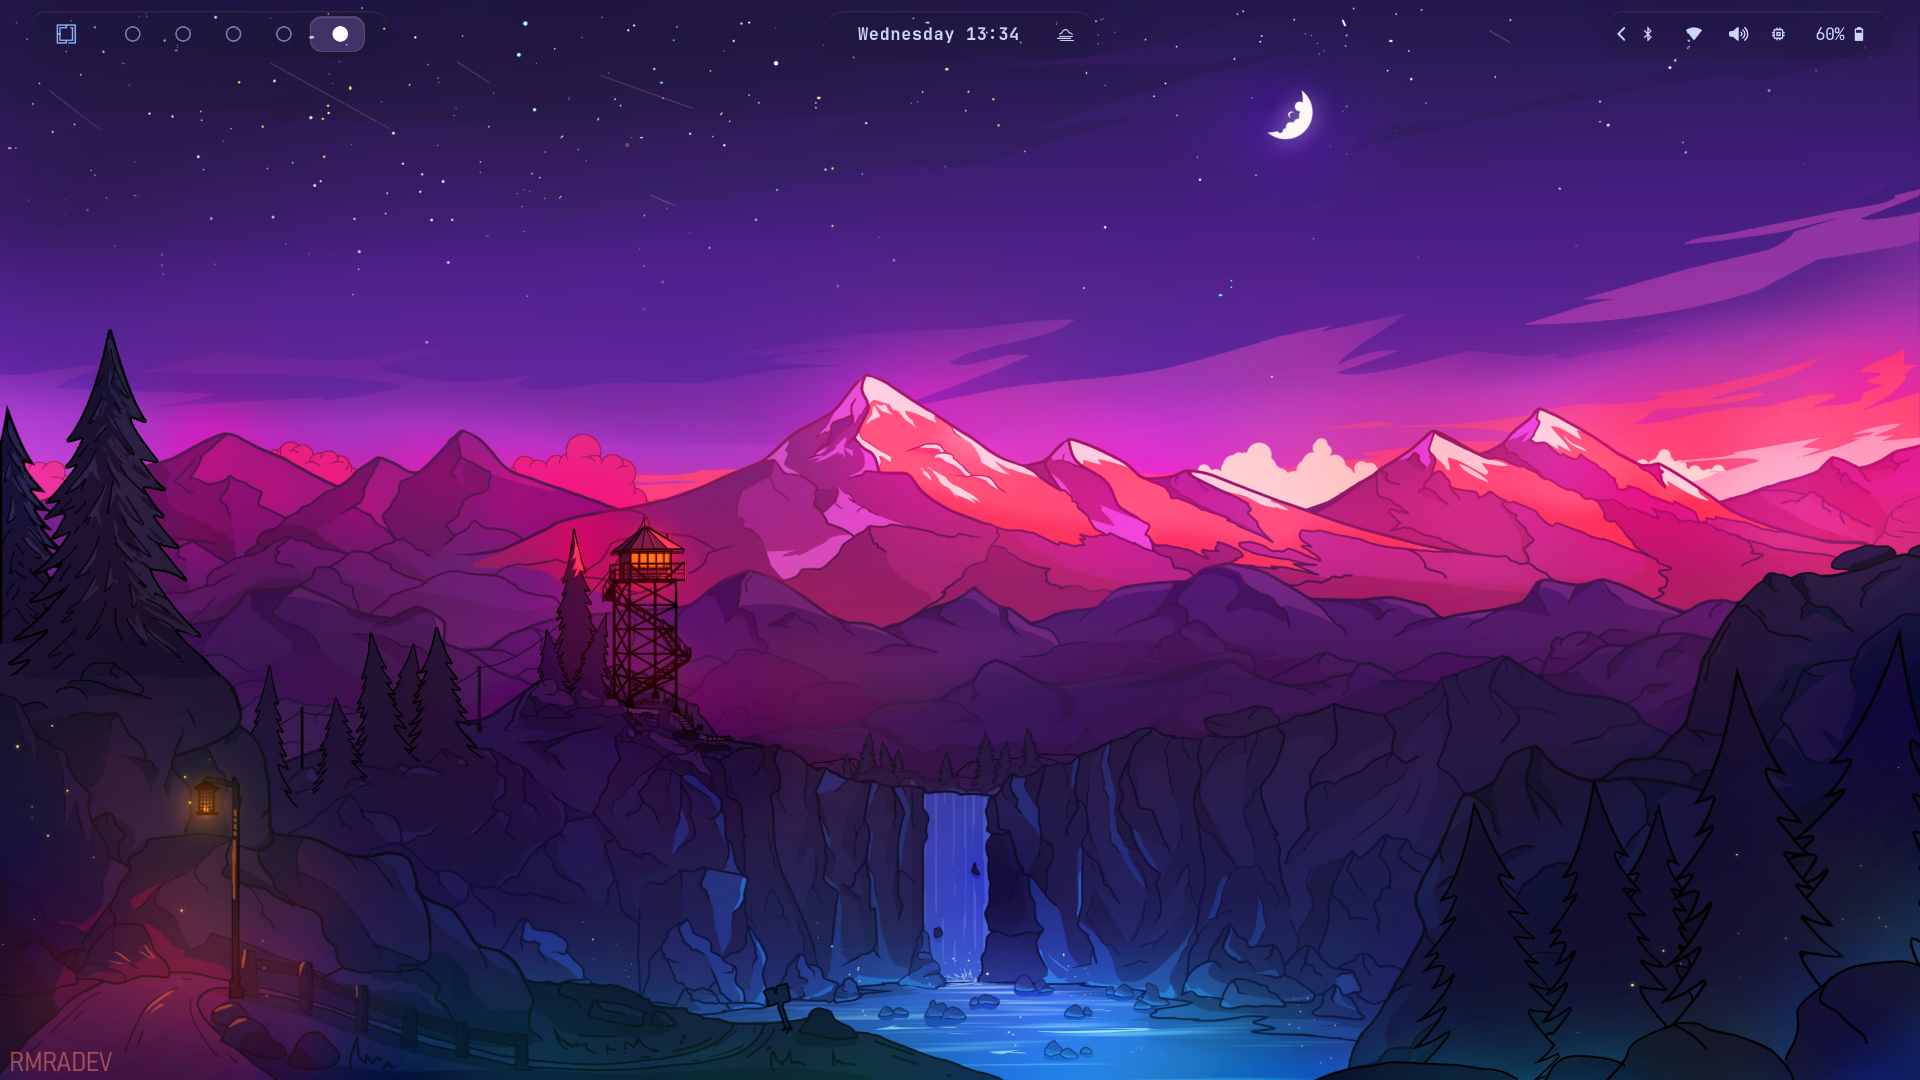
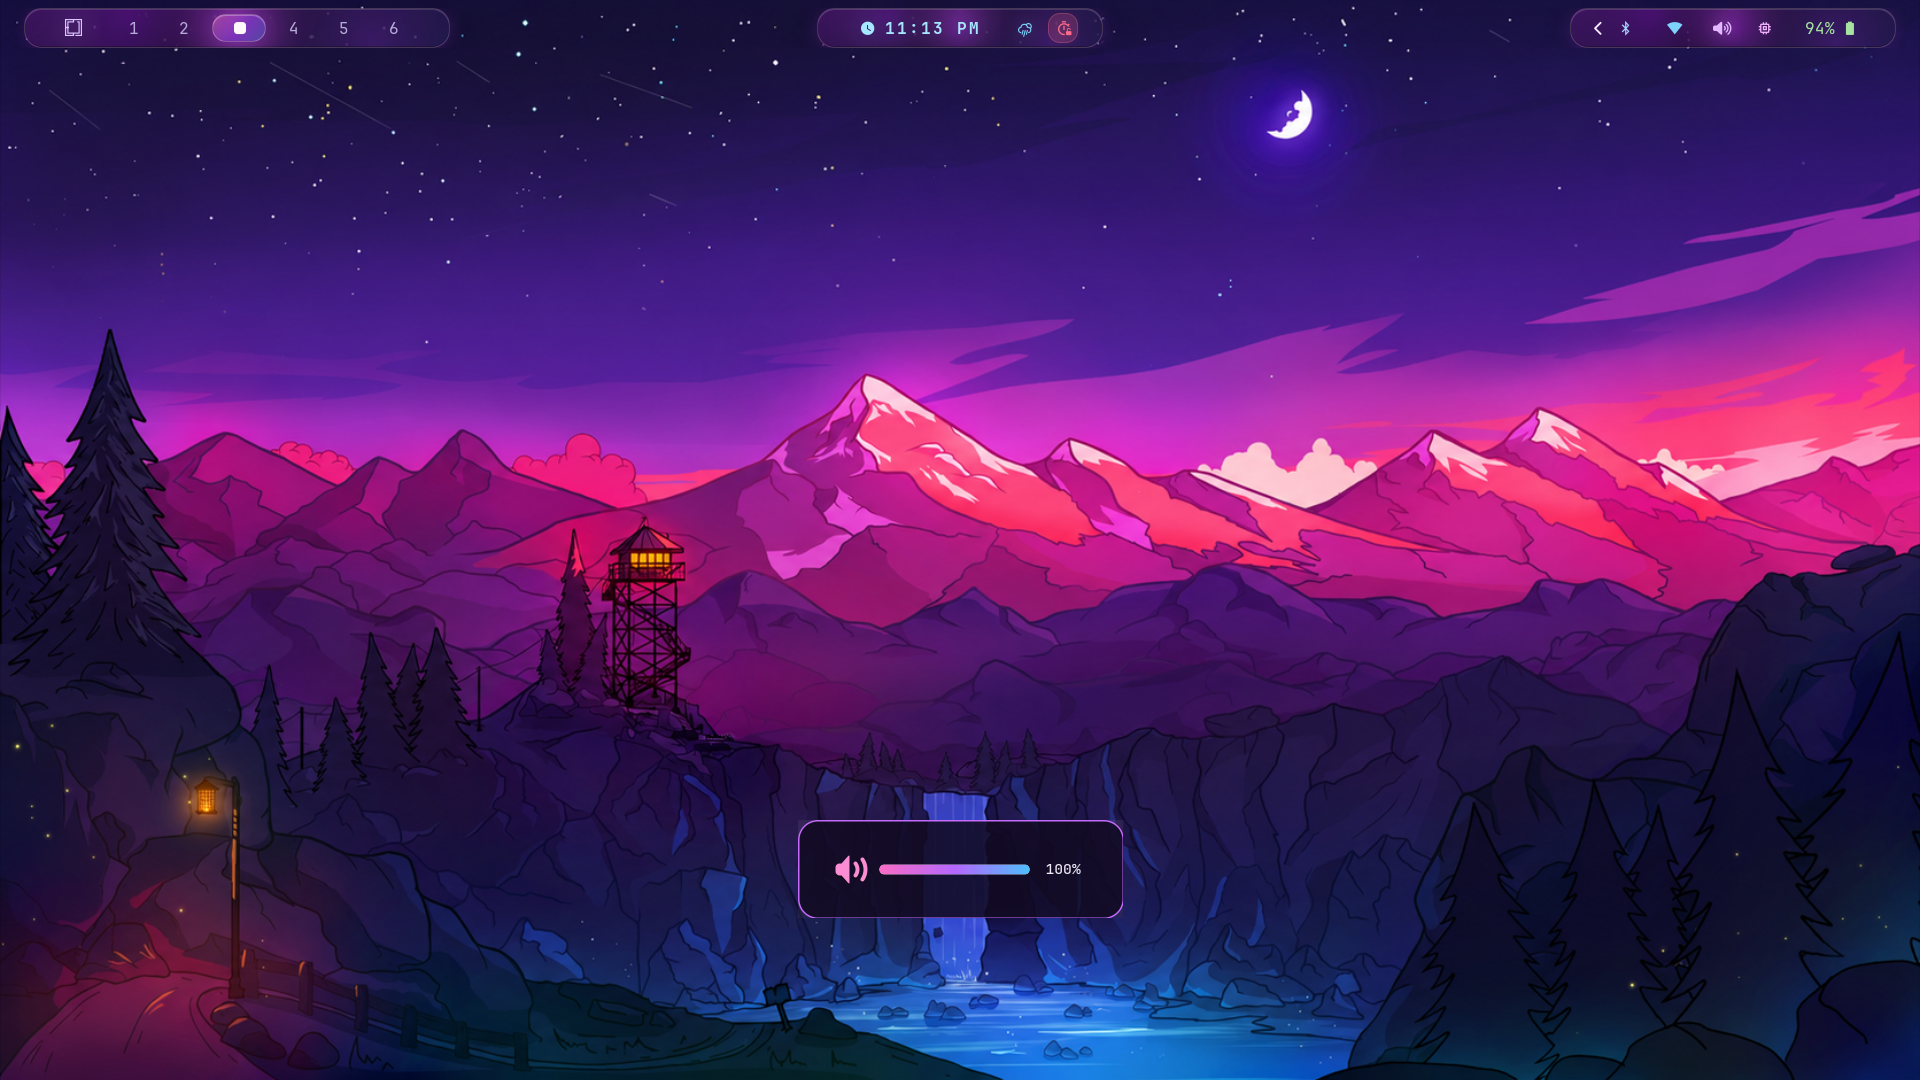
feat: Improve waybar and removed watermark from wallpaper

diff --git a/waybar/.config/waybar/style.css b/waybar/.config/waybar/style.css
@@ -5,62 +5,77 @@
   font-size: 16px;
   border: none;
   min-height: 0;
-  padding: 1px;
+  padding: 0px;
 }
 
 window#waybar {
   background: transparent;
-  color: #f1e6ff;
+  color: #f4ecff;
 }
 
 .modules-left,
 .modules-center,
 .modules-right {
-  background: linear-gradient(135deg, rgba(76, 29, 107, 0.45), rgba(45, 24, 74, 0.40) 45%, rgba(30, 41, 90, 0.40));
-  border-radius: 16px;
-  border: 1px solid rgba(244, 178, 216, 0.16);
+  background: rgba(14, 11, 28, 0.55);
+  background-image:
+    linear-gradient(135deg, rgba(88, 28, 130, 0.55), rgba(45, 24, 74, 0.45) 45%, rgba(24, 33, 82, 0.45)),
+    radial-gradient(circle at 50% 0%, rgba(216, 70, 255, 0.35) 0%, transparent 55%),
+    radial-gradient(circle at 50% 50%, rgba(200, 30, 255, 0.65) 0%, transparent 42%),
+    radial-gradient(circle at 25% 15%, rgba(150, 0, 220, 0.45) 0%, transparent 50%),
+    radial-gradient(circle at 82% 85%, rgba(190, 40, 255, 0.35) 0%, transparent 60%);
+  border-radius: 18px;
+  border: 1px solid rgba(255, 200, 240, 0.22);
   padding: 0px 22px;
   margin: 0px 10px;
   box-shadow:
-    0 4px 16px rgba(20, 8, 40, 0.35),
-    0 0 24px rgba(190, 100, 220, 0.06),
-    inset 0 1px 0 rgba(255, 255, 255, 0.10);
+    0 14px 34px rgba(0, 0, 0, 0.35),
+    0 2px 8px rgba(190, 60, 255, 0.18),
+    inset 0 1px rgba(255, 255, 255, 0.14),
+    inset 0 -1px rgba(0, 0, 0, 0.25);
 }
 
+/* ===== Workspaces ===== */
+
 #workspaces {
-  margin: 4px 8px;
+  margin: 5px 8px;
 }
 
 #workspaces button {
-  color: #9a8fc2;
-  padding: 0px 12px;
+  color: #b7addb;
+  padding: 0px 13px;
   margin: 0 3px;
-  border-radius: 16px;
-  transition: all 0.25s ease;
+  border-radius: 18px;
+  border: 1px solid transparent;
+  transition: all 0.25s cubic-bezier(0.25, 1, 0.5, 1);
 }
 
 #workspaces button:hover {
-  background: rgba(244, 178, 216, 0.10);
+  background: rgba(244, 178, 216, 0.14);
   color: #ffffff;
-  box-shadow: 0 2px 10px rgba(236, 130, 190, 0.15);
+  border: 1px solid rgba(244, 178, 216, 0.18);
+  box-shadow: 0 3px 12px rgba(236, 130, 190, 0.22);
 }
 
 #workspaces button.active {
-  background: linear-gradient(135deg, rgba(236, 130, 190, 0.32), rgba(147, 112, 219, 0.32));
-  color: #fef8f8;
+  background: linear-gradient(135deg, rgba(255, 120, 210, 0.45), rgba(160, 80, 255, 0.45) 55%, rgba(110, 130, 255, 0.40));
+  color: #fff9fc;
   font-weight: 700;
-  border: 1px solid rgba(255, 200, 230, 0.22);
-  min-width: 24px;
+  border: 1px solid rgba(255, 210, 240, 0.35);
+  min-width: 26px;
   box-shadow:
-    0 4px 14px rgba(198, 90, 200, 0.28),
-    inset 0 1px 0 rgba(255, 255, 255, 0.18);
+    0 6px 18px rgba(200, 90, 220, 0.38),
+    0 0 20px rgba(220, 100, 255, 0.22),
+    inset 0 1px 0 rgba(255, 255, 255, 0.28);
 }
 
 #workspaces button.urgent {
-  background: rgba(251, 146, 60, 0.20);
-  color: #fb923c;
-  border: 1px solid rgba(251, 146, 60, 0.25);
+  background: rgba(251, 146, 60, 0.24);
+  color: #ffb27a;
+  border: 1px solid rgba(251, 146, 60, 0.35);
+  box-shadow: 0 0 14px rgba(251, 146, 60, 0.30);
 }
+
+/* ===== Standard modules ===== */
 
 #cpu,
 #battery,
@@ -72,10 +87,11 @@ window#waybar {
 #custom-update,
 #tray,
 #custom-weather {
-  padding: 0 12px;
+  padding: 0 13px;
   margin: 4px 4px;
-  border-radius: 10px;
-  transition: all 0.2s ease;
+  border-radius: 12px;
+  border: 1px solid transparent;
+  transition: all 0.22s ease;
 }
 
 #cpu:hover,
@@ -87,35 +103,37 @@ window#waybar {
 #custom-omarchy:hover,
 #custom-update:hover,
 #custom-weather:hover {
-  background: rgba(255, 255, 255, 0.07);
+  background: rgba(255, 255, 255, 0.09);
   color: #ffffff;
-  box-shadow: 0 2px 10px rgba(120, 100, 220, 0.12);
+  border: 1px solid rgba(255, 255, 255, 0.10);
+  box-shadow: 0 3px 14px rgba(150, 120, 255, 0.20);
 }
 
-#custom-weather{
-  color:#7dd3fc;
+#custom-weather {
+  color: #7dd3fc;
+  text-shadow: 0 0 8px rgba(125, 211, 252, 0.30);
 }
 
 #custom-omarchy {
-  font-size: 16px;
-  color: #cdb8ff;
+  font-size: 17px;
+  color: #dcc4ff;
   padding-right: 14px;
-  text-shadow: 0 0 12px rgba(205, 184, 255, 0.55);
+  text-shadow: 0 0 14px rgba(220, 196, 255, 0.65);
 }
 
 #custom-update {
   color: #fbbf24;
-  text-shadow: 0 0 8px rgba(251, 191, 36, 0.35);
+  text-shadow: 0 0 10px rgba(251, 191, 36, 0.45);
 }
 
 #clock {
-  color: #7dd3fc;
-  font-weight: 600;
+  color: #a6e8ff;
+  font-weight: 700;
   letter-spacing: 2px;
   padding-left: 16px;
   padding-right: 16px;
   min-width: 90px;
-  text-shadow: 0 0 10px rgba(244, 178, 216, 0.25);
+  text-shadow: 0 0 14px rgba(125, 211, 252, 0.45), 0 0 24px rgba(244, 178, 216, 0.25);
 }
 
 #network {
@@ -123,15 +141,16 @@ window#waybar {
 }
 
 #bluetooth {
-  color: #93c5fd;
+  color: #a6d2ff;
 }
 
 #pulseaudio {
-  color: #d8b4fe;
+  color: #e2b9ff;
+  text-shadow: 0 0 8px rgba(226, 185, 255, 0.30);
 }
 
 #cpu {
-  color: #f0abfc;
+  color: #f5b3ff;
 }
 
 #battery {
@@ -140,42 +159,49 @@ window#waybar {
 
 #battery.charging {
   color: #a6e3a1;
+  text-shadow: 0 0 8px rgba(166, 227, 161, 0.40);
 }
 
 #battery.warning {
   color: #fbbf24;
+  text-shadow: 0 0 8px rgba(251, 191, 36, 0.35);
 }
 
 #battery.critical {
-  color: #fb7185;
-  background: rgba(251, 113, 133, 0.16);
-  border-radius: 10px;
+  color: #ff6b8b;
+  background: rgba(255, 107, 139, 0.20);
+  border: 1px solid rgba(255, 107, 139, 0.30);
+  border-radius: 12px;
+  text-shadow: 0 0 10px rgba(255, 107, 139, 0.55);
 }
+
+/* ===== Indicator cluster ===== */
 
 #custom-screenrecording-indicator,
 #custom-idle-indicator,
 #custom-notification-silencing-indicator,
 #custom-voxtype {
   margin: 4px 2px;
-  padding: 0 8px;
-  border-radius: 10px;
-  transition: all 0.2s ease;
-  color:  #c4b5fd;
+  padding: 0 9px;
+  border-radius: 12px;
+  border: 1px solid transparent;
+  transition: all 0.22s ease;
+  color: #d0b8ff;
 }
 
 #custom-screenrecording-indicator.active,
 #custom-idle-indicator.active,
 #custom-notification-silencing-indicator.active,
 #custom-voxtype.recording {
-  color: #fb7185;
-  background: rgba(251, 113, 133, 0.14);
-  border: 1px solid rgba(251, 113, 133, 0.20);
-  text-shadow: 0 0 8px rgba(251, 113, 133, 0.4);
+  color: #ff6b8b;
+  background: rgba(255, 107, 139, 0.18);
+  border: 1px solid rgba(255, 107, 139, 0.28);
+  text-shadow: 0 0 10px rgba(255, 107, 139, 0.55);
 }
 
 #custom-voxtype.transcribing {
   color: #7dd3fc;
-  text-shadow: 0 0 8px rgba(125, 211, 252, 0.4);
+  text-shadow: 0 0 10px rgba(125, 211, 252, 0.50);
 }
 
 #custom-weather.unavailable {
@@ -184,25 +210,30 @@ window#waybar {
   padding: 0;
 }
 
+/* ===== Tray ===== */
+
 #tray {
   padding-right: 6px;
 }
 
 #tray menu {
-  background: rgba(30, 20, 50, 0.96);
-  border-radius: 12px;
-  border: 1px solid rgba(244, 178, 216, 0.15);
+  background: rgba(24, 16, 42, 0.97);
+  border-radius: 14px;
+  border: 1px solid rgba(244, 178, 216, 0.22);
+  box-shadow: 0 12px 30px rgba(0, 0, 0, 0.4);
 }
 
+/* ===== Tooltip ===== */
+
 tooltip {
-  background: linear-gradient(150deg, rgba(45, 22, 68, 0.97), rgba(26, 20, 48, 0.97));
-  border-radius: 12px;
-  border: 1px solid rgba(244, 178, 216, 0.18);
-  padding: 8px 12px;
-  color: #f1e6ff;
+  background: linear-gradient(150deg, rgba(40, 18, 62, 0.98), rgba(22, 16, 42, 0.98));
+  border-radius: 14px;
+  border: 1px solid rgba(244, 178, 216, 0.24);
+  padding: 9px 13px;
+  color: #f4ecff;
   box-shadow:
-    0 12px 30px rgba(0, 0, 0, 0.30),
-    0 0 20px rgba(190, 100, 220, 0.08);
+    0 16px 36px rgba(0, 0, 0, 0.35),
+    0 0 26px rgba(200, 100, 255, 0.12);
 }
 
 .hidden {
